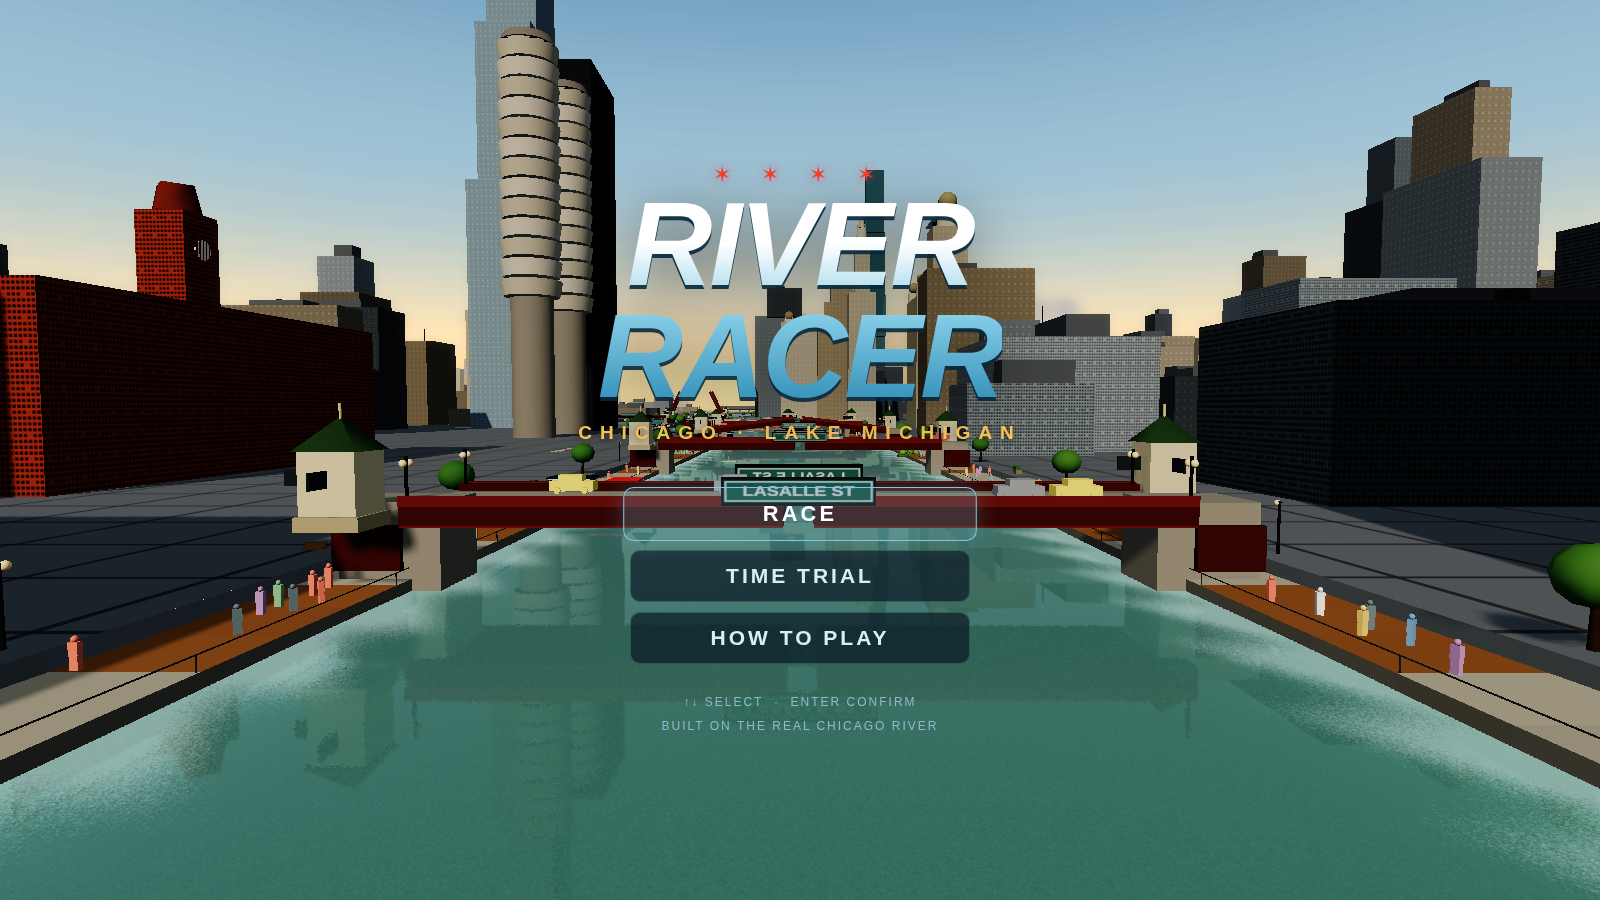
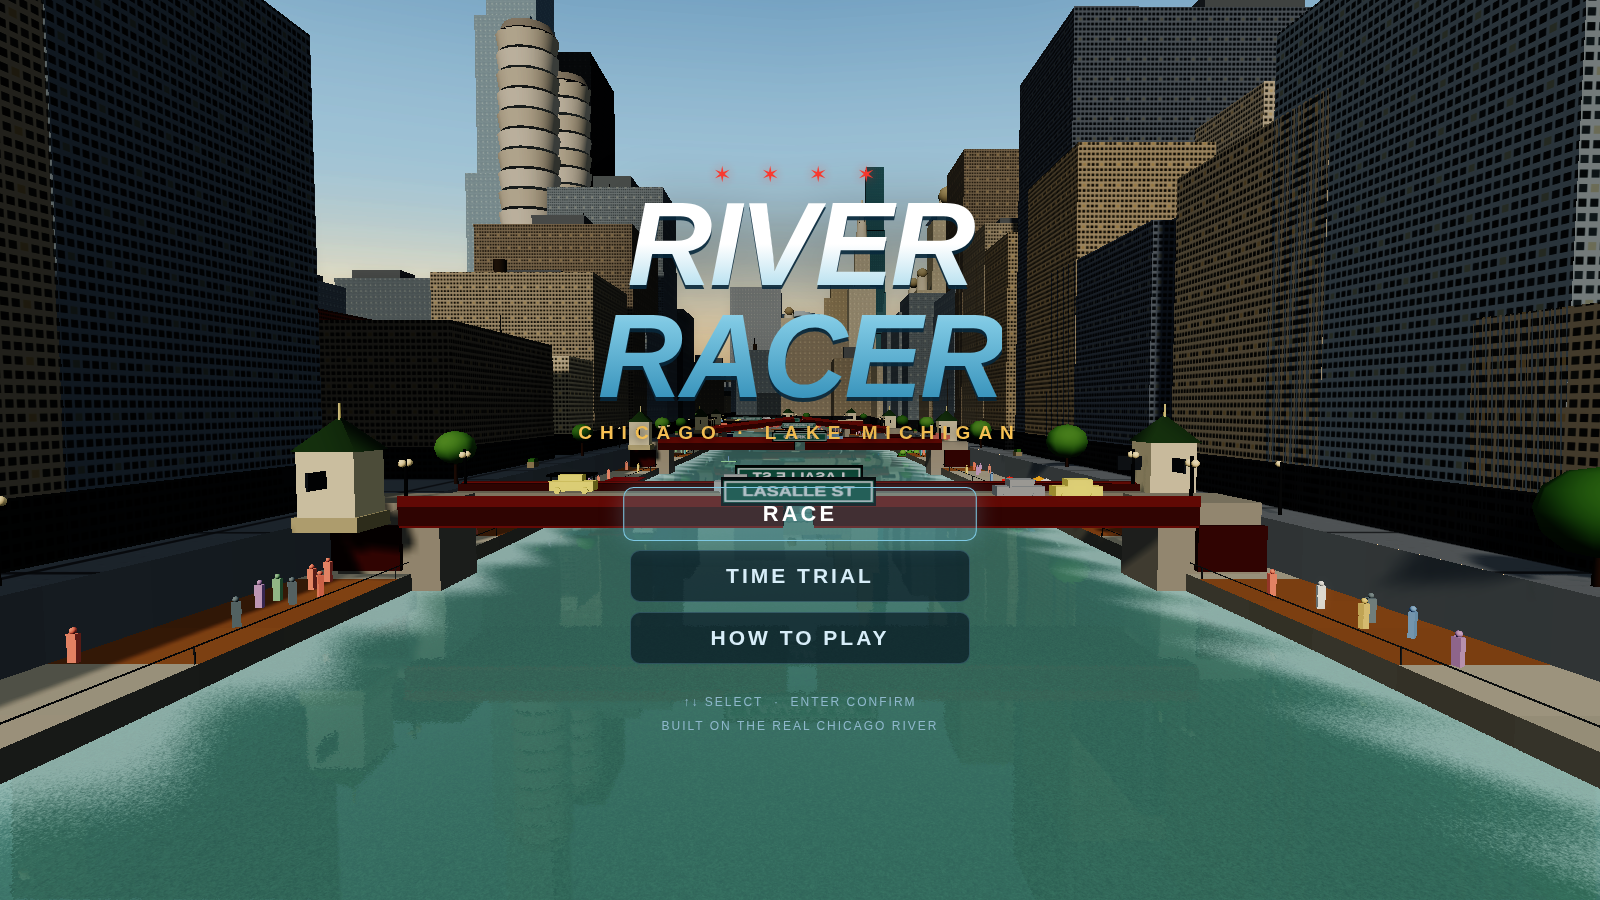
Sink the river below street level and fill the empty banks with dense buildings
Based on real reference (Upper Wacker sits a full level above the water; the Riverwalk
is down at water level):
- Raise the street grid to ~6m (matching the bascule bridge decks — the streets were
  wrongly BELOW the bridges before) and drop the promenade to ~1.5m, so the river now
  runs in a proper trough with tall quay + retaining walls. Lakefront kept near water
  via its own ground level. Promenade height synced in riverwalk.js and life.js.
- Fill the open space: a near-continuous riverfront wall of low/mid-rise buildings
  hugging both banks (keep-out + bridge/landmark aware), a denser and farther-reaching
  Loop street-grid fill with far fewer gaps and parks, ground-floor retail bands, and
  more buildings per block. The Loop now reads as a solid canyon of buildings.

Verified from close range: bridges, both branches, Wolf Point and the lakefront all
show the sunken river with dense banks and no geometry over the water; all courses pass.

Claude-Session: https://claude.ai/code/session_01EhbuAtRJA6oewV2GCpRd8x

diff --git a/play/RiverRacer.html b/play/RiverRacer.html
@@ -2535,7 +2535,9 @@ window.CHICAGO = {
     return flatMat;
   };
 
-  const GROUND_Y = 2.3;                       // street level above water
+  // Upper Wacker / street grid sits a full level (~20 ft) above the river, matching the
+  // bascule bridge decks — the river runs in a trough down at water level.
+  const GROUND_Y = 6.0;
   CITY.GROUND_Y = GROUND_Y;
 
   // keep-out: signed clearance to the NEAREST water edge — channels AND the lake basin.
@@ -2728,60 +2730,90 @@ window.CHICAGO = {
       }
     }
 
-    for (let gx = -22; gx <= 24; gx++) {
-      for (let gz = -20; gz <= 22; gz++) {
+    // place one building, footprint keep-out checked; returns true if placed
+    function placeBuilding(bxx, bzz, w, d, dLoop, loRise) {
+      const halfDiag = Math.hypot(w, d) * 0.5;
+      if (landClearance(bxx, bzz) < halfDiag + 2) return false;          // whole footprint must be on dry land
+      if (bxx > C.lake.openWaterX - halfDiag - 18) return false;
+      let h;
+      if (loRise) h = 14 + rng() * 46;
+      else h = (20 + rng() * rng() * 165) * U().clamp(1.4 - dLoop / 2100, 0.3, 1.2);
+      if (landClearance(bxx, bzz) < 70) h = Math.min(h, 34 + rng() * 60);  // step down toward the water
+      h = Math.max(11, h);
+      const g = towerGeom(w, h, d, bxx, bzz, 0);
+      g.translate(0, GROUND_Y, 0);
+      tintGeom(g, palettes[Math.floor(rng() * palettes.length)], 0.22, rng);
+      geoms.push(g);
+      // ground-floor retail band (darker base) for street-level realism
+      const band = towerGeom(w + 0.4, 4.5, d + 0.4, bxx, bzz, 0);
+      band.translate(0, GROUND_Y, 0);
+      tintGeom(band, 0x3b3f45, 0.1, rng); geoms.push(band);
+      if (h > 90 && rng() > 0.4) {                                       // setback crown
+        const g2 = towerGeom(w * 0.62, h * 0.28, d * 0.62, bxx, bzz, 0);
+        g2.translate(0, GROUND_Y + h, 0);
+        tintGeom(g2, palettes[Math.floor(rng() * palettes.length)], 0.22, rng);
+        geoms.push(g2);
+        roofClutter(bxx, bzz, GROUND_Y + h + h * 0.28, w * 0.62, d * 0.62);
+      } else {
+        roofClutter(bxx, bzz, GROUND_Y + h, w, d);
+      }
+      return true;
+    }
+
+    // ---- riverfront building wall: a near-continuous line of mid/low-rise right along the banks ----
+    for (const key in RR.River.paths) {
+      if (key.startsWith('lake')) continue;
+      const p = RR.River.paths[key];
+      for (let i = 3; i < p.n - 3; i += 3) {
+        let tx = p.x[i + 1] - p.x[i - 1], tz = p.z[i + 1] - p.z[i - 1];
+        const tl = Math.max(1e-6, Math.hypot(tx, tz)); tx /= tl; tz /= tl;
+        for (const s of [-1, 1]) {
+          const w = 26 + rng() * 26, d = 24 + rng() * 22;
+          const set = p.w[i] + 15 + d / 2;                               // just behind street + riverwalk
+          const bxx = p.x[i] - tz * set * s, bzz = p.z[i] + tx * set * s;
+          if (bxx > C.lake.openWaterX - 40) continue;
+          if (nearBridge(bxx, bzz, 26)) continue;                        // leave room for the bridge approaches
+          let ok = true;
+          for (const l of lm) if (Math.abs(l.x - bxx) < l.w / 2 + 30 && Math.abs(l.z - bzz) < l.d / 2 + 30) { ok = false; break; }
+          if (ok) placeBuilding(bxx, bzz, w, d, Math.hypot(bxx - cx0, bzz - cz0), rng() < 0.5);
+        }
+      }
+    }
+
+    // ---- Loop street-grid fill behind the riverfront ----
+    for (let gx = -24; gx <= 26; gx++) {
+      for (let gz = -22; gz <= 24; gz++) {
         const bx = gx * (BLOCK + STREET), bz = gz * (BLOCK + STREET);
         if (bx > C.lake.openWaterX - 90) continue;                       // lakefront park stays open
         const clear = landClearance(bx, bz);
         if (clear < 4) continue;                                         // block center basically in the water
         let owned = false;
         for (const l of lm) {
-          if (Math.abs(l.x - bx) < (l.w / 2 + 60) && Math.abs(l.z - bz) < (l.d / 2 + 60)) { owned = true; break; }
+          if (Math.abs(l.x - bx) < (l.w / 2 + 58) && Math.abs(l.z - bz) < (l.d / 2 + 58)) { owned = true; break; }
         }
         if (owned) continue;
         const dLoop = Math.hypot(bx - cx0, bz - cz0);
-        if (dLoop > 2600) continue;
+        if (dLoop > 3100) continue;
 
-        // some near-water blocks become riverfront parks instead of towers
-        if (clear < 60 && rng() < 0.22) {
-          const tile = new THREE.PlaneGeometry(BLOCK - 6, BLOCK - 6);
+        // occasional pocket park right at the water (much rarer now)
+        if (clear < 45 && rng() < 0.1) {
+          const tile = new THREE.PlaneGeometry(BLOCK - 8, BLOCK - 8);
           tile.rotateX(-Math.PI / 2); tile.translate(bx, GROUND_Y + 0.02, bz);
           tintGeom(tile, 0x4f7a3e, 0.14, rng); detailGeoms.push(tile);
-          const nT = 4 + Math.floor(rng() * 6);
-          for (let t = 0; t < nT; t++) {
+          for (let t = 0; t < 5 + (rng() * 5 | 0); t++) {
             const tx = bx + (rng() - 0.5) * (BLOCK - 16), tz = bz + (rng() - 0.5) * (BLOCK - 16);
             if (landClearance(tx, tz) > 3) treeAt(dressGeoms, tx, tz, 0.9 + rng() * 0.4);
           }
           continue;
         }
 
-        const density = U().clamp(1.25 - dLoop / 2200, 0.2, 1);
-        if (rng() > density + 0.2) continue;
-        const nBld = 1 + Math.floor(rng() * 2.2 * density + 0.5);
+        const density = U().clamp(1.45 - dLoop / 2800, 0.45, 1);
+        if (rng() > density + 0.35) continue;                            // skip far fewer blocks
+        const nBld = 2 + Math.floor(rng() * 2.6 * density);              // pack the block
         for (let b = 0; b < nBld; b++) {
-          const w = 22 + rng() * 44, d = 22 + rng() * 44;
+          const w = 20 + rng() * 44, d = 20 + rng() * 44;
           const ox = (rng() - 0.5) * (BLOCK - w), oz = (rng() - 0.5) * (BLOCK - d);
-          const bxx = bx + ox, bzz = bz + oz;
-          const halfDiag = Math.hypot(w, d) * 0.5;
-          // FOOTPRINT keep-out: the whole building, not just its center, must sit on dry land
-          if (landClearance(bxx, bzz) < halfDiag + 3) continue;
-          if (bxx > C.lake.openWaterX - halfDiag - 20) continue;
-          let h = (18 + rng() * rng() * 155) * U().clamp(1.35 - dLoop / 1900, 0.25, 1.15);
-          if (landClearance(bxx, bzz) < 80) h = Math.min(h, 55 + rng() * 55);   // step down toward the water
-          h = Math.max(12, h);
-          const g = towerGeom(w, h, d, bxx, bzz, 0);
-          g.translate(0, GROUND_Y, 0);
-          tintGeom(g, palettes[Math.floor(rng() * palettes.length)], 0.22, rng);
-          geoms.push(g);
-          if (h > 85 && rng() > 0.4) {                                   // setback crown
-            const g2 = towerGeom(w * 0.62, h * 0.28, d * 0.62, bxx, bzz, 0);
-            g2.translate(0, GROUND_Y + h, 0);
-            tintGeom(g2, palettes[Math.floor(rng() * palettes.length)], 0.22, rng);
-            geoms.push(g2);
-            roofClutter(bxx, bzz, GROUND_Y + h + h * 0.28, w * 0.62, d * 0.62);
-          } else {
-            roofClutter(bxx, bzz, GROUND_Y + h, w, d);
-          }
+          placeBuilding(bx + ox, bz + oz, w, d, dLoop, rng() < 0.28);
         }
       }
     }
@@ -2860,8 +2892,8 @@ window.CHICAGO = {
   const RW = {};
   const U = () => RR.U;
   let rng;
-  const GY = () => RR.City.GROUND_Y;   // upper street level (2.3)
-  const PY = 1.0;                       // lower promenade height above the water
+  const GY = () => RR.City.GROUND_Y;   // upper street level (~6m)
+  const PY = 1.5;                       // lower promenade — the walkway a few feet above the water
   const PROM = 9;                       // promenade reaches w .. w+9
 
   let deck = [], flat = [], wall = [], bright = [];   // geometry buckets
@@ -3702,7 +3734,7 @@ window.CHICAGO = {
     const C = window.CHICAGO;
     const lake = C.lake;
     const geoms = [];
-    const GY = RR.City.GROUND_Y;
+    const GY = 2.2;              // the lakefront sits near water level, not up at the downtown street grid
 
     // ---------- Chicago Harbor Lock: concrete chamber walls + gate machinery ----------
     const lock = lake.lock;
@@ -4047,7 +4079,7 @@ window.CHICAGO = {
 (function () {
   const LIFE = {};
   const U = () => RR.U;
-  const PY = 1.0;                 // promenade height (matches riverwalk.js)
+  const PY = 1.5;                 // promenade height (matches riverwalk.js)
 
   let people, peopleData = [], nWalk = 0;
   let bikes, bikeData = [];

diff --git a/js/world/city.js b/js/world/city.js
@@ -109,7 +109,9 @@
     return flatMat;
   };
 
-  const GROUND_Y = 2.3;                       // street level above water
+  // Upper Wacker / street grid sits a full level (~20 ft) above the river, matching the
+  // bascule bridge decks — the river runs in a trough down at water level.
+  const GROUND_Y = 6.0;
   CITY.GROUND_Y = GROUND_Y;
 
   // keep-out: signed clearance to the NEAREST water edge — channels AND the lake basin.
@@ -302,60 +304,90 @@
       }
     }
 
-    for (let gx = -22; gx <= 24; gx++) {
-      for (let gz = -20; gz <= 22; gz++) {
+    // place one building, footprint keep-out checked; returns true if placed
+    function placeBuilding(bxx, bzz, w, d, dLoop, loRise) {
+      const halfDiag = Math.hypot(w, d) * 0.5;
+      if (landClearance(bxx, bzz) < halfDiag + 2) return false;          // whole footprint must be on dry land
+      if (bxx > C.lake.openWaterX - halfDiag - 18) return false;
+      let h;
+      if (loRise) h = 14 + rng() * 46;
+      else h = (20 + rng() * rng() * 165) * U().clamp(1.4 - dLoop / 2100, 0.3, 1.2);
+      if (landClearance(bxx, bzz) < 70) h = Math.min(h, 34 + rng() * 60);  // step down toward the water
+      h = Math.max(11, h);
+      const g = towerGeom(w, h, d, bxx, bzz, 0);
+      g.translate(0, GROUND_Y, 0);
+      tintGeom(g, palettes[Math.floor(rng() * palettes.length)], 0.22, rng);
+      geoms.push(g);
+      // ground-floor retail band (darker base) for street-level realism
+      const band = towerGeom(w + 0.4, 4.5, d + 0.4, bxx, bzz, 0);
+      band.translate(0, GROUND_Y, 0);
+      tintGeom(band, 0x3b3f45, 0.1, rng); geoms.push(band);
+      if (h > 90 && rng() > 0.4) {                                       // setback crown
+        const g2 = towerGeom(w * 0.62, h * 0.28, d * 0.62, bxx, bzz, 0);
+        g2.translate(0, GROUND_Y + h, 0);
+        tintGeom(g2, palettes[Math.floor(rng() * palettes.length)], 0.22, rng);
+        geoms.push(g2);
+        roofClutter(bxx, bzz, GROUND_Y + h + h * 0.28, w * 0.62, d * 0.62);
+      } else {
+        roofClutter(bxx, bzz, GROUND_Y + h, w, d);
+      }
+      return true;
+    }
+
+    // ---- riverfront building wall: a near-continuous line of mid/low-rise right along the banks ----
+    for (const key in RR.River.paths) {
+      if (key.startsWith('lake')) continue;
+      const p = RR.River.paths[key];
+      for (let i = 3; i < p.n - 3; i += 3) {
+        let tx = p.x[i + 1] - p.x[i - 1], tz = p.z[i + 1] - p.z[i - 1];
+        const tl = Math.max(1e-6, Math.hypot(tx, tz)); tx /= tl; tz /= tl;
+        for (const s of [-1, 1]) {
+          const w = 26 + rng() * 26, d = 24 + rng() * 22;
+          const set = p.w[i] + 15 + d / 2;                               // just behind street + riverwalk
+          const bxx = p.x[i] - tz * set * s, bzz = p.z[i] + tx * set * s;
+          if (bxx > C.lake.openWaterX - 40) continue;
+          if (nearBridge(bxx, bzz, 26)) continue;                        // leave room for the bridge approaches
+          let ok = true;
+          for (const l of lm) if (Math.abs(l.x - bxx) < l.w / 2 + 30 && Math.abs(l.z - bzz) < l.d / 2 + 30) { ok = false; break; }
+          if (ok) placeBuilding(bxx, bzz, w, d, Math.hypot(bxx - cx0, bzz - cz0), rng() < 0.5);
+        }
+      }
+    }
+
+    // ---- Loop street-grid fill behind the riverfront ----
+    for (let gx = -24; gx <= 26; gx++) {
+      for (let gz = -22; gz <= 24; gz++) {
         const bx = gx * (BLOCK + STREET), bz = gz * (BLOCK + STREET);
         if (bx > C.lake.openWaterX - 90) continue;                       // lakefront park stays open
         const clear = landClearance(bx, bz);
         if (clear < 4) continue;                                         // block center basically in the water
         let owned = false;
         for (const l of lm) {
-          if (Math.abs(l.x - bx) < (l.w / 2 + 60) && Math.abs(l.z - bz) < (l.d / 2 + 60)) { owned = true; break; }
+          if (Math.abs(l.x - bx) < (l.w / 2 + 58) && Math.abs(l.z - bz) < (l.d / 2 + 58)) { owned = true; break; }
         }
         if (owned) continue;
         const dLoop = Math.hypot(bx - cx0, bz - cz0);
-        if (dLoop > 2600) continue;
+        if (dLoop > 3100) continue;
 
-        // some near-water blocks become riverfront parks instead of towers
-        if (clear < 60 && rng() < 0.22) {
-          const tile = new THREE.PlaneGeometry(BLOCK - 6, BLOCK - 6);
+        // occasional pocket park right at the water (much rarer now)
+        if (clear < 45 && rng() < 0.1) {
+          const tile = new THREE.PlaneGeometry(BLOCK - 8, BLOCK - 8);
           tile.rotateX(-Math.PI / 2); tile.translate(bx, GROUND_Y + 0.02, bz);
           tintGeom(tile, 0x4f7a3e, 0.14, rng); detailGeoms.push(tile);
-          const nT = 4 + Math.floor(rng() * 6);
-          for (let t = 0; t < nT; t++) {
+          for (let t = 0; t < 5 + (rng() * 5 | 0); t++) {
             const tx = bx + (rng() - 0.5) * (BLOCK - 16), tz = bz + (rng() - 0.5) * (BLOCK - 16);
             if (landClearance(tx, tz) > 3) treeAt(dressGeoms, tx, tz, 0.9 + rng() * 0.4);
           }
           continue;
         }
 
-        const density = U().clamp(1.25 - dLoop / 2200, 0.2, 1);
-        if (rng() > density + 0.2) continue;
-        const nBld = 1 + Math.floor(rng() * 2.2 * density + 0.5);
+        const density = U().clamp(1.45 - dLoop / 2800, 0.45, 1);
+        if (rng() > density + 0.35) continue;                            // skip far fewer blocks
+        const nBld = 2 + Math.floor(rng() * 2.6 * density);              // pack the block
         for (let b = 0; b < nBld; b++) {
-          const w = 22 + rng() * 44, d = 22 + rng() * 44;
+          const w = 20 + rng() * 44, d = 20 + rng() * 44;
           const ox = (rng() - 0.5) * (BLOCK - w), oz = (rng() - 0.5) * (BLOCK - d);
-          const bxx = bx + ox, bzz = bz + oz;
-          const halfDiag = Math.hypot(w, d) * 0.5;
-          // FOOTPRINT keep-out: the whole building, not just its center, must sit on dry land
-          if (landClearance(bxx, bzz) < halfDiag + 3) continue;
-          if (bxx > C.lake.openWaterX - halfDiag - 20) continue;
-          let h = (18 + rng() * rng() * 155) * U().clamp(1.35 - dLoop / 1900, 0.25, 1.15);
-          if (landClearance(bxx, bzz) < 80) h = Math.min(h, 55 + rng() * 55);   // step down toward the water
-          h = Math.max(12, h);
-          const g = towerGeom(w, h, d, bxx, bzz, 0);
-          g.translate(0, GROUND_Y, 0);
-          tintGeom(g, palettes[Math.floor(rng() * palettes.length)], 0.22, rng);
-          geoms.push(g);
-          if (h > 85 && rng() > 0.4) {                                   // setback crown
-            const g2 = towerGeom(w * 0.62, h * 0.28, d * 0.62, bxx, bzz, 0);
-            g2.translate(0, GROUND_Y + h, 0);
-            tintGeom(g2, palettes[Math.floor(rng() * palettes.length)], 0.22, rng);
-            geoms.push(g2);
-            roofClutter(bxx, bzz, GROUND_Y + h + h * 0.28, w * 0.62, d * 0.62);
-          } else {
-            roofClutter(bxx, bzz, GROUND_Y + h, w, d);
-          }
+          placeBuilding(bx + ox, bz + oz, w, d, dLoop, rng() < 0.28);
         }
       }
     }

diff --git a/js/world/riverwalk.js b/js/world/riverwalk.js
@@ -7,8 +7,8 @@
   const RW = {};
   const U = () => RR.U;
   let rng;
-  const GY = () => RR.City.GROUND_Y;   // upper street level (2.3)
-  const PY = 1.0;                       // lower promenade height above the water
+  const GY = () => RR.City.GROUND_Y;   // upper street level (~6m)
+  const PY = 1.5;                       // lower promenade — the walkway a few feet above the water
   const PROM = 9;                       // promenade reaches w .. w+9
 
   let deck = [], flat = [], wall = [], bright = [];   // geometry buckets

diff --git a/js/world/lake.js b/js/world/lake.js
@@ -19,7 +19,7 @@
     const C = window.CHICAGO;
     const lake = C.lake;
     const geoms = [];
-    const GY = RR.City.GROUND_Y;
+    const GY = 2.2;              // the lakefront sits near water level, not up at the downtown street grid
 
     // ---------- Chicago Harbor Lock: concrete chamber walls + gate machinery ----------
     const lock = lake.lock;

diff --git a/js/world/life.js b/js/world/life.js
@@ -3,7 +3,7 @@
 (function () {
   const LIFE = {};
   const U = () => RR.U;
-  const PY = 1.0;                 // promenade height (matches riverwalk.js)
+  const PY = 1.5;                 // promenade height (matches riverwalk.js)
 
   let people, peopleData = [], nWalk = 0;
   let bikes, bikeData = [];

diff --git a/README.md b/README.md
@@ -16,6 +16,8 @@ The river **mirrors the skyline** with real planar reflections, the golden hour 
 
 The river isn't game-designer squiggle — the three channels are **medial-axis centerlines extracted from real GIS hydrography** of the Chicago Area Waterway System (IEPA/USGS bank-line data), with channel widths measured from the same survey. All three branches meet at the true Wolf Point junction, and the Main Stem jogs north at Trump Tower exactly like the real river does.
 
+And it's built like the real thing vertically: the river runs in a **trough a full level (~20 ft) below the street grid**, just like Upper Wacker Drive — you race down at water level between tall quay walls, with the Riverwalk promenade at the water's edge and the Loop's dense wall of buildings rising from the street above.
+
 Along the banks, modeled from their actual footprints and heights:
 
 - **Marina City** corncobs, **Willis Tower**'s nine stepped tubes, **Trump Tower**, the **Wrigley Building** clock tower, **Tribune Tower**'s gothic crown, **Merchandise Mart**, **333 W Wacker**'s curved green glass at the bend, **St. Regis**, **Aqua**, the **Jewelers Building** cupolas, **Civic Opera House**, **150 N Riverside** on its impossible base, **River Point**, **Lake Point Tower**, and more — plus landmark callouts as you pass.
